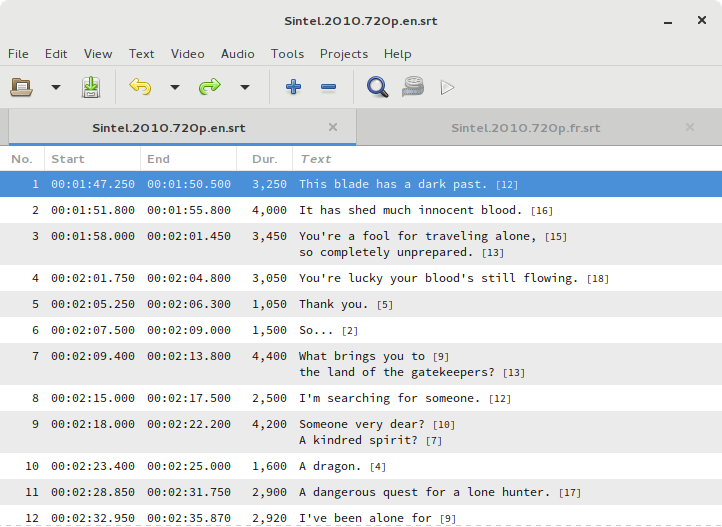
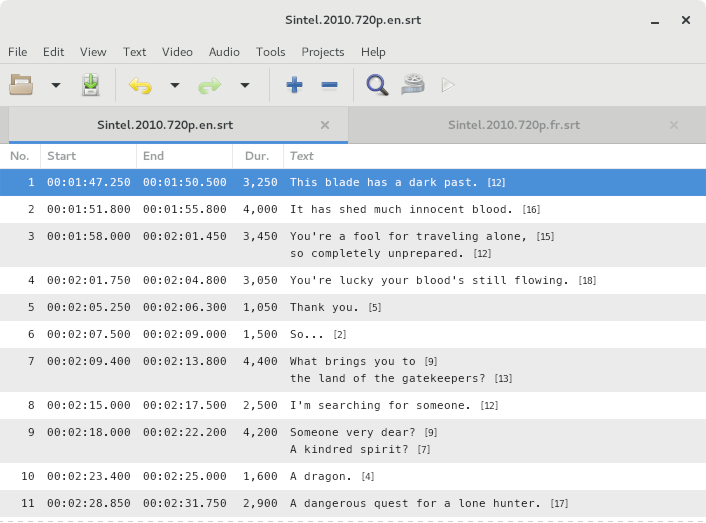
Add HiDPI screenshots

diff --git a/index.html b/index.html
@@ -8,8 +8,8 @@
     <title>Gaupol Subtitle Editor</title>
     <link rel="icon" type="image/x-icon" href="favicon.ico?v=1">
     <link rel="apple-touch-icon" href="apple-touch-icon.png?v=1">
-    <link rel="stylesheet" href="https://cdnjs.cloudflare.com/ajax/libs/twitter-bootstrap/3.3.6/css/bootstrap.min.css">
-    <link rel="stylesheet" href="https://cdnjs.cloudflare.com/ajax/libs/lightbox2/2.8.2/css/lightbox.min.css">
+    <link rel="stylesheet" href="https://cdnjs.cloudflare.com/ajax/libs/twitter-bootstrap/3.3.7/css/bootstrap.min.css">
+    <link rel="stylesheet" href="https://cdnjs.cloudflare.com/ajax/libs/magnific-popup.js/1.1.0/magnific-popup.min.css">
     <link rel="stylesheet" href="style.css?v=1">
   </head>
   <body>
@@ -30,11 +30,17 @@
         <a href="https://github.com/otsaloma/gaupol/releases">
           Release details and other downloads</a>
       </p>
-      <a href="screenshot-1.png" class="image" data-lightbox="screenshots">
-        <img class="screenshot" src="screenshot-header.png" alt="Screenshot"></a>
-      <!-- Show more screenshots in the Lightbox carousel, but not on the page. -->
-      <a href="screenshot-2.png" data-lightbox="screenshots" style="display: none;"></a>
-      <a href="screenshot-3.png" data-lightbox="screenshots" style="display: none;"></a>
+      <div class="gallery">
+        <a href="screenshot-1.png">
+          <img class="screenshot"
+               src="screenshot-header.png"
+               srcset="screenshot-header@2x.png 2x"
+               alt="Screenshot">
+        </a>
+        <!-- Show more screenshots in the carousel, but not on the page. -->
+        <a href="screenshot-2.png" style="display: none;"></a>
+        <a href="screenshot-3.png" style="display: none;"></a>
+      </div>
     </div>
     <div id="features" class="container-fluid section">
       <div class="row">
@@ -73,13 +79,13 @@
       <a href="https://gitter.im/otsaloma/gaupol">Discuss</a>
       <a href="https://github.com/otsaloma/gaupol">Code</a>
       <a href="https://github.com/otsaloma/gaupol/issues">Bugs</a>
-      <a href="http://www.transifex.com/otsaloma/gaupol/">Translations</a>
+      <a href="https://www.transifex.com/otsaloma/gaupol/">Translations</a>
       <p>Built and maintained by Osmo Salomaa</p>
     </div>
-    <script src="https://cdnjs.cloudflare.com/ajax/libs/jquery/2.2.3/jquery.min.js"></script>
-    <script src="https://cdnjs.cloudflare.com/ajax/libs/twitter-bootstrap/3.3.6/js/bootstrap.min.js"></script>
-    <script src="https://cdnjs.cloudflare.com/ajax/libs/platform/1.3.1/platform.min.js"></script>
-    <script src="https://cdnjs.cloudflare.com/ajax/libs/lightbox2/2.8.2/js/lightbox.min.js"></script>
+    <script src="https://cdnjs.cloudflare.com/ajax/libs/jquery/2.2.4/jquery.min.js"></script>
+    <script src="https://cdnjs.cloudflare.com/ajax/libs/twitter-bootstrap/3.3.7/js/bootstrap.min.js"></script>
+    <script src="https://cdnjs.cloudflare.com/ajax/libs/platform/1.3.3/platform.min.js"></script>
+    <script src="https://cdnjs.cloudflare.com/ajax/libs/magnific-popup.js/1.1.0/jquery.magnific-popup.min.js"></script>
     <script src="main.js?v=1"></script>
   </body>
 </html>

diff --git a/style.css b/style.css
@@ -65,27 +65,6 @@ p {
   color: white !important;
 }
 
-/* Lightbox */
-
-#lightbox a {
-  border-bottom: none !important;
-}
-
-#lightbox .lb-container {
-  padding: 24px !important;
-}
-
-#lightbox .lb-image {
-  background-color: rgba(0,0,0,0.15);
-  box-shadow: 0px 0px 12px rgba(0,0,0,0.5);
-}
-
-#lightbox .lb-number {
-  font-size: 16px !important;
-  font-weight: 700 !important;
-  line-height: 30px !important;
-}
-
 /* Sections */
 
 .section {

diff --git a/main.js b/main.js
@@ -6,3 +6,14 @@ $(document).on("ready", function() {
         $(".download.windows").show();
     }
 });
+
+$(document).on("ready", function() {
+    $(".gallery").magnificPopup({
+        closeOnContentClick: false,
+        delegate: "a",
+        gallery: {enabled: true},
+        retina: {ratio: 2},
+        showCloseBtn: true,
+        type: "image",
+    });
+});
